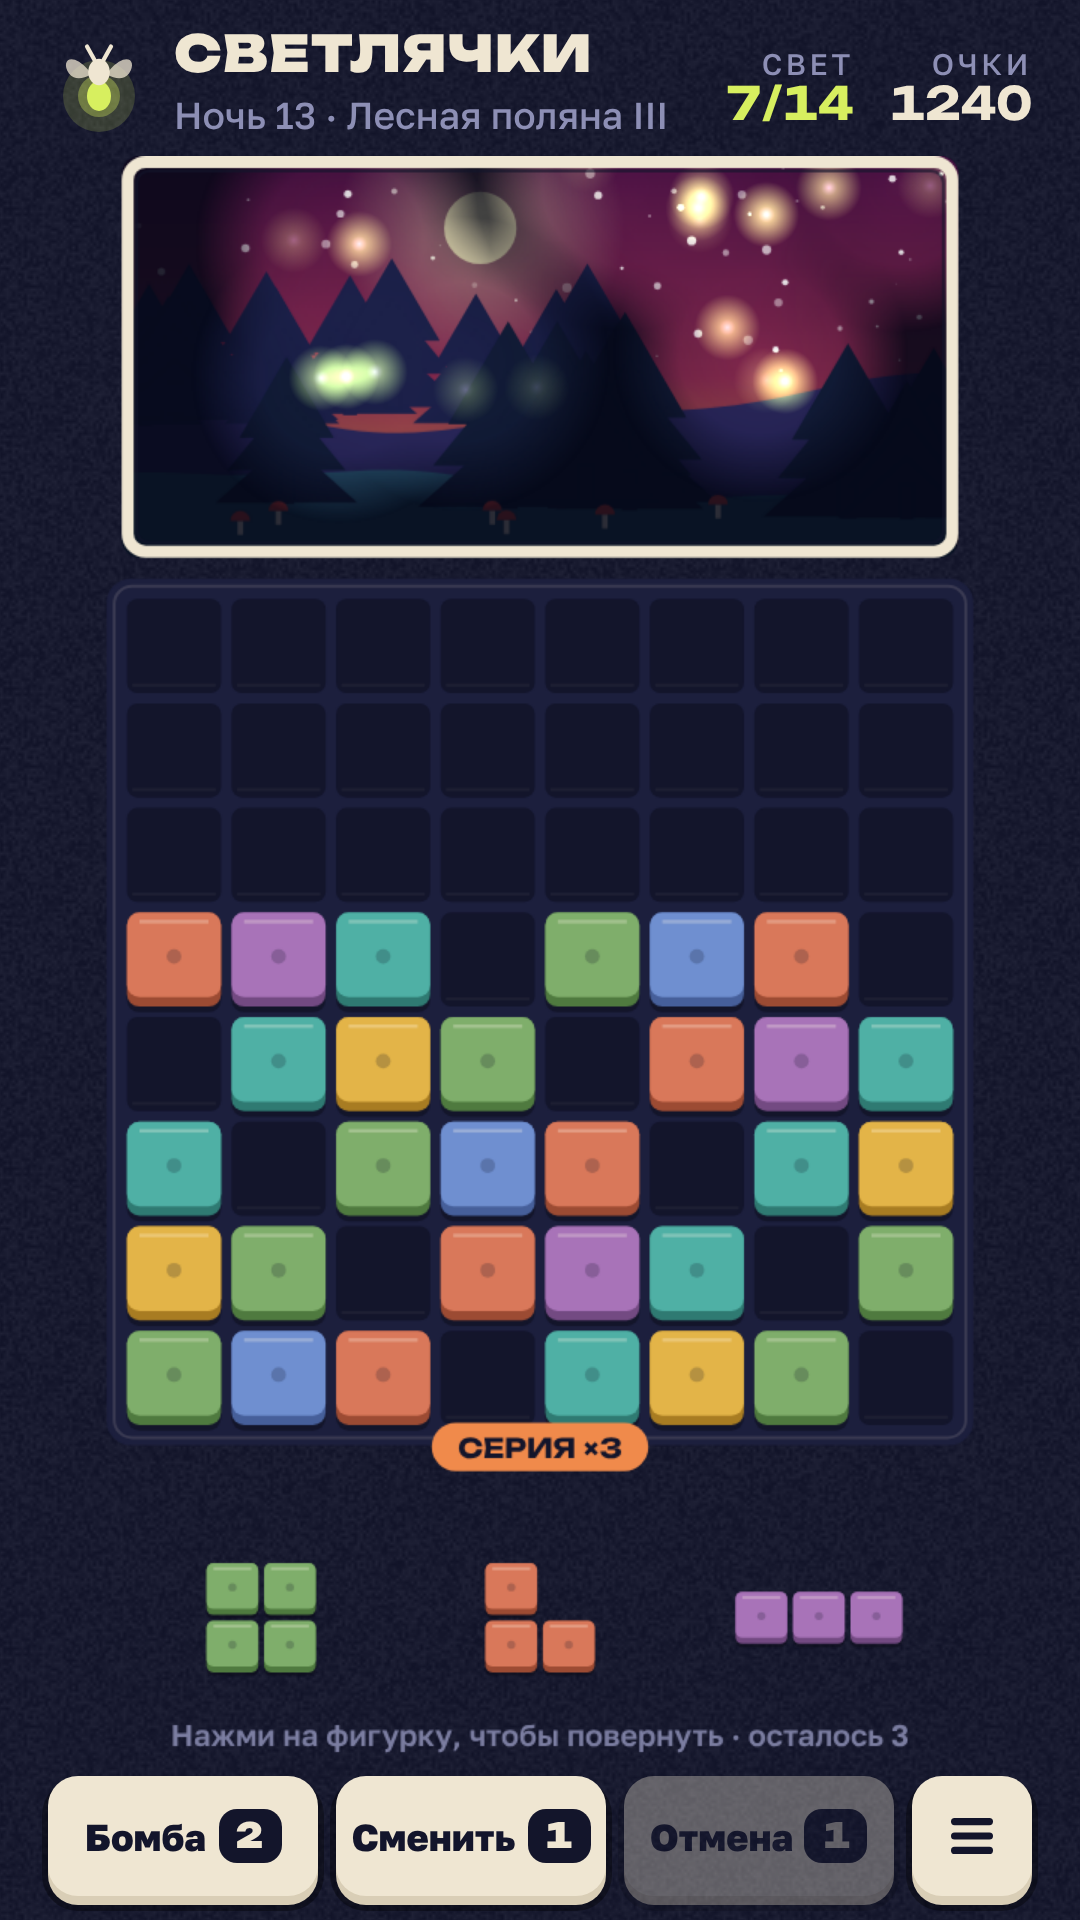
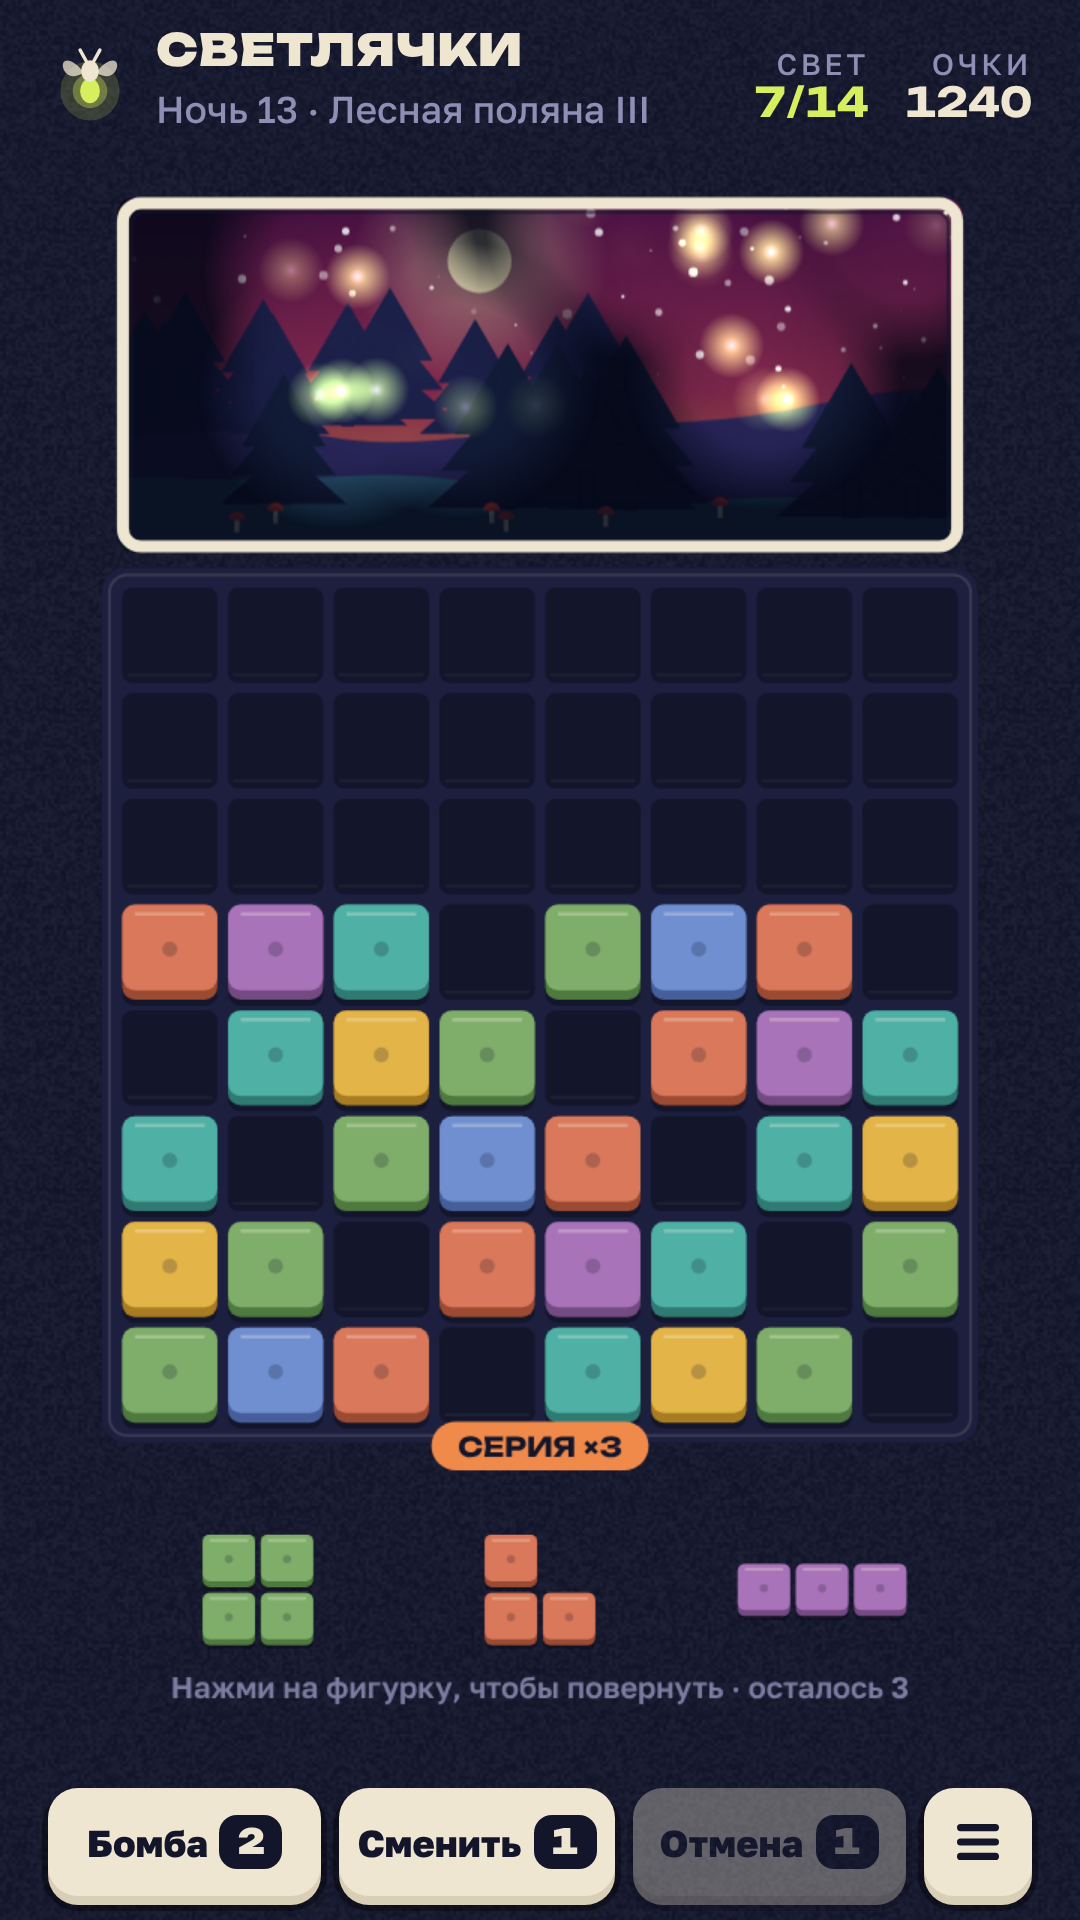
Compact interface and keep header below the status bar
Claude-Session: https://claude.ai/code/session_019zeVjTGjaYdXPUfvdE7seY

Changed region(s): [[0.0611, 0.3125, 0.9472, 1.0], [0.0611, 0.0, 0.9472, 0.3125]]

diff --git a/www/index.html b/www/index.html
@@ -4,7 +4,8 @@
 <meta name="viewport" content="width=device-width,initial-scale=1,maximum-scale=1,user-scalable=no,viewport-fit=cover">
 <style>
 *,*::before,*::after{box-sizing:border-box}
-:root{color-scheme:light;padding-top:env(safe-area-inset-top,0px);padding-bottom:env(safe-area-inset-bottom,0px)}
+:root{color-scheme:light;padding-top:max(env(safe-area-inset-top,0px),var(--safe-area-inset-top,0px));padding-bottom:max(env(safe-area-inset-bottom,0px),var(--safe-area-inset-bottom,0px))}
+html{background:#13152b}
 body{margin:0;font:14px system-ui,sans-serif}img{max-width:100%}[hidden]{display:none!important}
 html,body{overscroll-behavior:none}
 </style>
@@ -49,35 +50,35 @@ body {
   padding-block: 10px 8px;
   box-sizing: border-box;
 }
-header, .bar { width: 100%; max-width: 520px; margin: 0 auto; }
+header, .bar { width: 100%; max-width: 400px; margin: 0 auto; }
 header { display: flex; align-items: center; gap: 12px; }
 .logo { display: flex; align-items: center; gap: 8px; min-width: 0; flex: 1; }
-.logo svg { flex: none; }
+.logo svg { flex: none; width: 28px; height: 28px; }
 .logo-text { min-width: 0; }
 .logo h1 {
-  font-family: var(--display); font-weight: 900; font-size: 1.05rem; margin: 0; line-height: 1;
+  font-family: var(--display); font-weight: 900; font-size: 0.92rem; margin: 0; line-height: 1;
   letter-spacing: 0.02em; text-transform: uppercase; color: var(--paper);
 }
 .logo span { display: block; margin-top: 4px; font-size: 0.78rem; color: var(--dim); white-space: nowrap; overflow: hidden; text-overflow: ellipsis; }
 .stat { text-align: right; font-variant-numeric: tabular-nums; line-height: 1.1; }
-.stat b { display: block; font-family: var(--display); font-weight: 700; font-size: 0.95rem; }
+.stat b { display: block; font-family: var(--display); font-weight: 700; font-size: 0.85rem; }
 .stat b.lit { color: var(--lime); }
 .stat small { color: var(--dim); font-size: 0.62rem; letter-spacing: 0.12em; text-transform: uppercase; }
 .stage { flex: 1; position: relative; min-height: 0; }
 #cv { position: absolute; inset: 0; width: 100%; height: 100%; touch-action: none; display: block; }
-.bar { display: grid; grid-template-columns: minmax(0,1fr) minmax(0,1fr) minmax(0,1fr) 40px; gap: 6px; }
+.bar { display: grid; grid-template-columns: minmax(0,1fr) minmax(0,1fr) minmax(0,1fr) 36px; gap: 6px; }
 .chip {
-  font: 800 0.82rem var(--body); color: var(--ink); cursor: pointer;
+  font: 800 0.76rem var(--body); color: var(--ink); cursor: pointer;
   background: var(--paper); border: 0; border-radius: 10px;
   box-shadow: 0 3px 0 var(--paper-2), 0 3px 0 2px rgba(0,0,0,0.35);
-  padding: 9px 6px; min-height: 40px; min-width: 0; white-space: nowrap;
+  padding: 6px 6px; min-height: 36px; min-width: 0; white-space: nowrap;
   display: flex; align-items: center; justify-content: center; gap: 5px;
   transition: transform 0.08s;
 }
 .chip:active { transform: translateY(2px); box-shadow: 0 1px 0 var(--paper-2); }
 .chip svg { flex: none; }
 .chip .n { font-family: var(--display); font-size: 0.72rem; background: var(--ink); color: var(--paper); border-radius: 6px; padding: 2px 6px; font-variant-numeric: tabular-nums; }
-.chip.sq { width: 40px; padding: 0; }
+.chip.sq { width: 36px; padding: 0; }
 .chip.off { opacity: 0.45; }
 .chip:disabled { opacity: 0.35; cursor: default; }
 .chip.armed { background: var(--ember); box-shadow: 0 3px 0 #b85a26; }
@@ -372,8 +373,9 @@ function layout() {
   const r = stage.getBoundingClientRect();
   W = r.width; H = r.height; DPR = Math.min(window.devicePixelRatio || 1, 2);
   cv.width = Math.round(W * DPR); cv.height = Math.round(H * DPR);
-  let bw = Math.min(W, 520);
-  let sh = bw * 0.48, th = bw / N * 2.9, gap = 12;
+  // compact: the board takes at most ~86% of the width so the game never feels oversized on a phone
+  let bw = Math.min(W * 0.82, 360);
+  let sh = bw * 0.42, th = bw / N * 2.5, gap = 10;
   const total = sh + bw + th + gap * 2;
   if (total > H) { const k = H / total; bw *= k; sh *= k; th *= k; }
   const used = sh + bw + th + gap * 2;

diff --git a/game/index.html b/game/index.html
@@ -39,35 +39,35 @@ body {
   padding-block: 10px 8px;
   box-sizing: border-box;
 }
-header, .bar { width: 100%; max-width: 520px; margin: 0 auto; }
+header, .bar { width: 100%; max-width: 400px; margin: 0 auto; }
 header { display: flex; align-items: center; gap: 12px; }
 .logo { display: flex; align-items: center; gap: 8px; min-width: 0; flex: 1; }
-.logo svg { flex: none; }
+.logo svg { flex: none; width: 28px; height: 28px; }
 .logo-text { min-width: 0; }
 .logo h1 {
-  font-family: var(--display); font-weight: 900; font-size: 1.05rem; margin: 0; line-height: 1;
+  font-family: var(--display); font-weight: 900; font-size: 0.92rem; margin: 0; line-height: 1;
   letter-spacing: 0.02em; text-transform: uppercase; color: var(--paper);
 }
 .logo span { display: block; margin-top: 4px; font-size: 0.78rem; color: var(--dim); white-space: nowrap; overflow: hidden; text-overflow: ellipsis; }
 .stat { text-align: right; font-variant-numeric: tabular-nums; line-height: 1.1; }
-.stat b { display: block; font-family: var(--display); font-weight: 700; font-size: 0.95rem; }
+.stat b { display: block; font-family: var(--display); font-weight: 700; font-size: 0.85rem; }
 .stat b.lit { color: var(--lime); }
 .stat small { color: var(--dim); font-size: 0.62rem; letter-spacing: 0.12em; text-transform: uppercase; }
 .stage { flex: 1; position: relative; min-height: 0; }
 #cv { position: absolute; inset: 0; width: 100%; height: 100%; touch-action: none; display: block; }
-.bar { display: grid; grid-template-columns: minmax(0,1fr) minmax(0,1fr) minmax(0,1fr) 40px; gap: 6px; }
+.bar { display: grid; grid-template-columns: minmax(0,1fr) minmax(0,1fr) minmax(0,1fr) 36px; gap: 6px; }
 .chip {
-  font: 800 0.82rem var(--body); color: var(--ink); cursor: pointer;
+  font: 800 0.76rem var(--body); color: var(--ink); cursor: pointer;
   background: var(--paper); border: 0; border-radius: 10px;
   box-shadow: 0 3px 0 var(--paper-2), 0 3px 0 2px rgba(0,0,0,0.35);
-  padding: 9px 6px; min-height: 40px; min-width: 0; white-space: nowrap;
+  padding: 6px 6px; min-height: 36px; min-width: 0; white-space: nowrap;
   display: flex; align-items: center; justify-content: center; gap: 5px;
   transition: transform 0.08s;
 }
 .chip:active { transform: translateY(2px); box-shadow: 0 1px 0 var(--paper-2); }
 .chip svg { flex: none; }
 .chip .n { font-family: var(--display); font-size: 0.72rem; background: var(--ink); color: var(--paper); border-radius: 6px; padding: 2px 6px; font-variant-numeric: tabular-nums; }
-.chip.sq { width: 40px; padding: 0; }
+.chip.sq { width: 36px; padding: 0; }
 .chip.off { opacity: 0.45; }
 .chip:disabled { opacity: 0.35; cursor: default; }
 .chip.armed { background: var(--ember); box-shadow: 0 3px 0 #b85a26; }
@@ -362,8 +362,9 @@ function layout() {
   const r = stage.getBoundingClientRect();
   W = r.width; H = r.height; DPR = Math.min(window.devicePixelRatio || 1, 2);
   cv.width = Math.round(W * DPR); cv.height = Math.round(H * DPR);
-  let bw = Math.min(W, 520);
-  let sh = bw * 0.48, th = bw / N * 2.9, gap = 12;
+  // compact: the board takes at most ~86% of the width so the game never feels oversized on a phone
+  let bw = Math.min(W * 0.82, 360);
+  let sh = bw * 0.42, th = bw / N * 2.5, gap = 10;
   const total = sh + bw + th + gap * 2;
   if (total > H) { const k = H / total; bw *= k; sh *= k; th *= k; }
   const used = sh + bw + th + gap * 2;

diff --git a/scripts/build-www.py b/scripts/build-www.py
@@ -30,7 +30,8 @@ head = f"""<!doctype html>
 <meta name="viewport" content="width=device-width,initial-scale=1,maximum-scale=1,user-scalable=no,viewport-fit=cover">
 <style>
 *,*::before,*::after{{box-sizing:border-box}}
-:root{{color-scheme:light;padding-top:env(safe-area-inset-top,0px);padding-bottom:env(safe-area-inset-bottom,0px)}}
+:root{{color-scheme:light;padding-top:max(env(safe-area-inset-top,0px),var(--safe-area-inset-top,0px));padding-bottom:max(env(safe-area-inset-bottom,0px),var(--safe-area-inset-bottom,0px))}}
+html{{background:#13152b}}
 body{{margin:0;font:14px system-ui,sans-serif}}img{{max-width:100%}}[hidden]{{display:none!important}}
 html,body{{overscroll-behavior:none}}
 </style>
